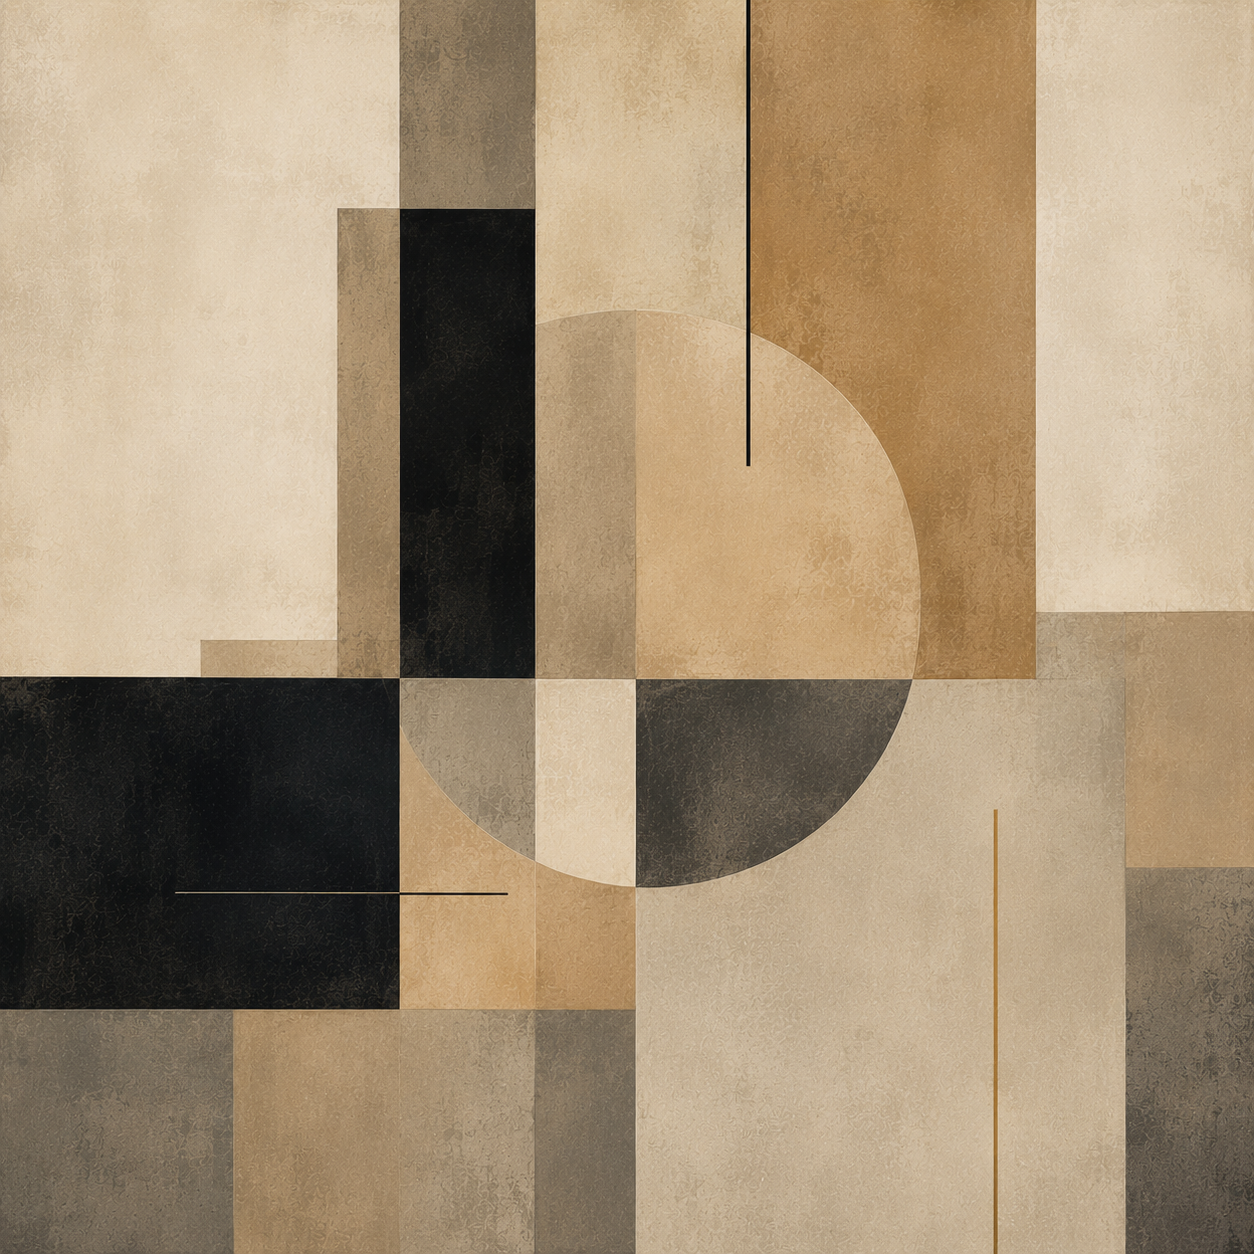
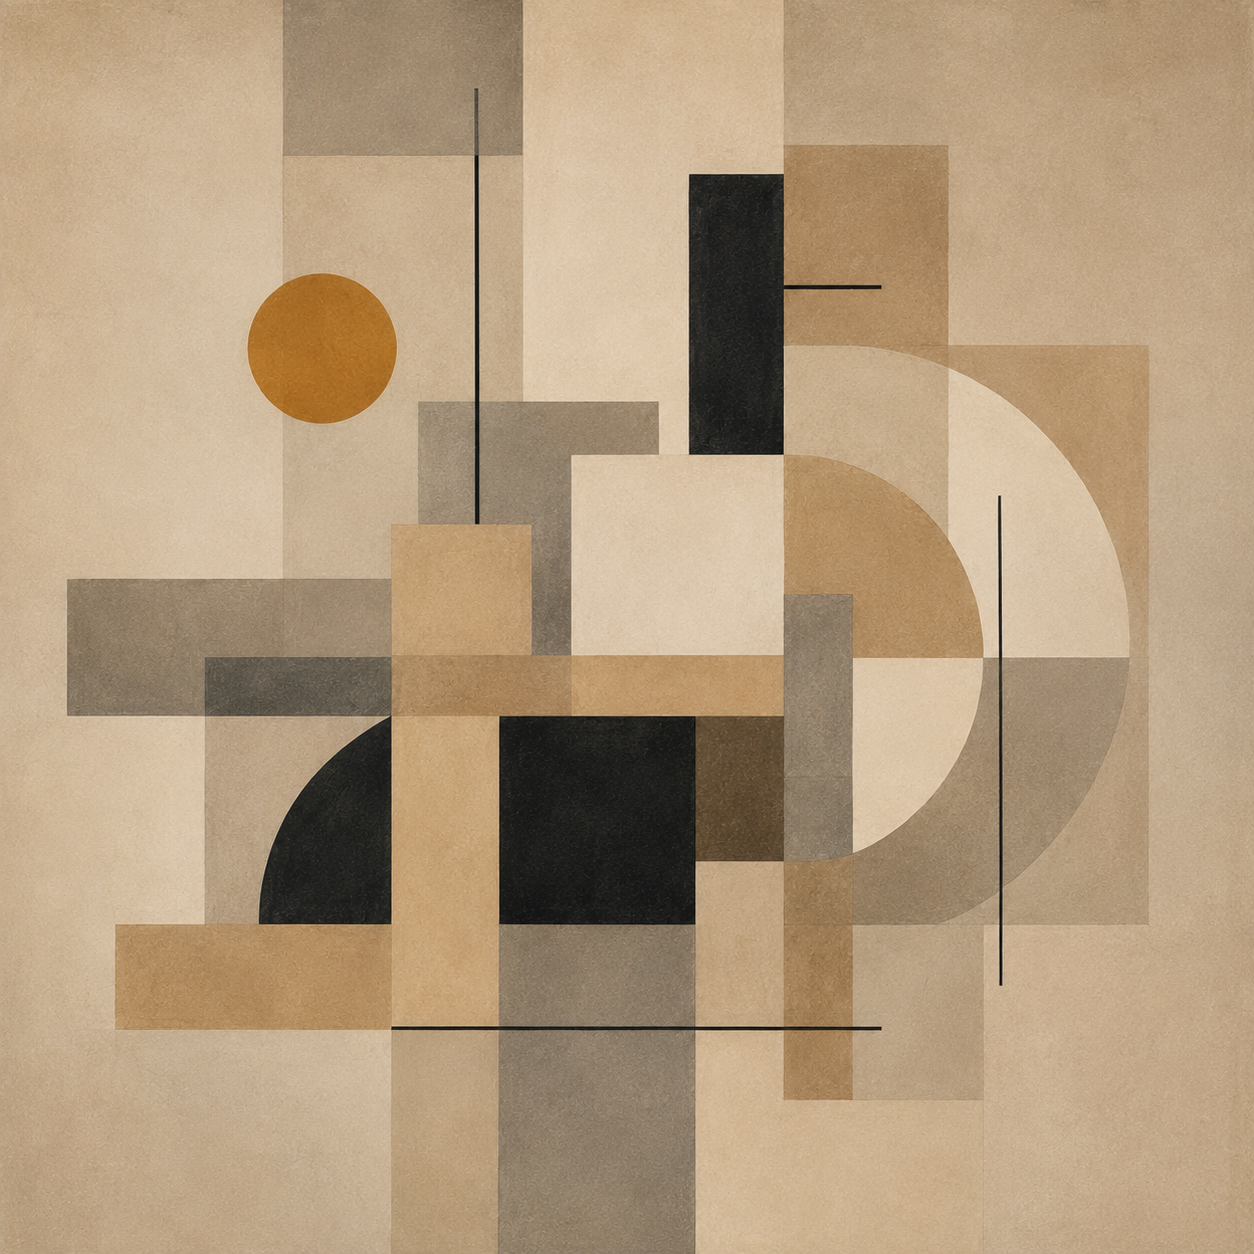
feat(gallery): validate local demonstration media

diff --git a/src/modules/gallery/demo-data.ts b/src/modules/gallery/demo-data.ts
@@ -84,27 +84,10 @@ export const galleryArtworks: readonly GalleryArtwork[] = Object.freeze([
     collectionSlug: "collection-beta",
     title: "Composition fictive A",
     artisticText:
-      "Des lignes ascendantes découpent l’espace et donnent à la composition un mouvement contenu.",
+      "Des lignes noires et des volumes architecturaux traversent l’espace horizontal, tandis qu’un disque ocre suspend leur mouvement.",
     media: Object.freeze({
       src: "/gallery/composition-a.webp",
-      alt: "Composition abstraite fictive verticale structurée par des lignes ascendantes.",
-      orientation: "portrait",
-      dimensions: Object.freeze({
-        width: 1024,
-        height: 1536,
-      }),
-    }),
-  }),
-
-  Object.freeze({
-    slug: "composition-b",
-    collectionSlug: "collection-beta",
-    title: "Composition fictive B",
-    artisticText:
-      "Les masses graphiques s’écartent puis se répondent dans un rythme horizontal volontairement irrégulier.",
-    media: Object.freeze({
-      src: "/gallery/composition-b.webp",
-      alt: "Composition abstraite fictive horizontale formée de masses graphiques espacées.",
+      alt: "Composition abstraite horizontale formée de blocs beiges, gris et noirs, d’arcs géométriques et d’un cercle ocre.",
       orientation: "landscape",
       dimensions: Object.freeze({
         width: 1536,
@@ -114,14 +97,31 @@ export const galleryArtworks: readonly GalleryArtwork[] = Object.freeze([
   }),
 
   Object.freeze({
+    slug: "composition-b",
+    collectionSlug: "collection-beta",
+    title: "Composition fictive B",
+    artisticText:
+      "Les formes s’élèvent en colonnes irrégulières, reliées par des courbes et des lignes fines qui accentuent leur verticalité.",
+    media: Object.freeze({
+      src: "/gallery/composition-b.webp",
+      alt: "Composition abstraite verticale faite de colonnes beiges et noires, de formes courbes et d’un cercle ocre.",
+      orientation: "portrait",
+      dimensions: Object.freeze({
+        width: 1024,
+        height: 1536,
+      }),
+    }),
+  }),
+
+  Object.freeze({
     slug: "composition-c",
     collectionSlug: "collection-beta",
     title: "Composition fictive C",
     artisticText:
-      "Un ensemble de fragments géométriques converge vers le centre sans former de figure identifiable.",
+      "Des fragments rectangulaires et des arcs imbriqués convergent vers un noyau central dans un équilibre dense et mesuré.",
     media: Object.freeze({
       src: "/gallery/composition-c.webp",
-      alt: "Composition abstraite fictive carrée faite de fragments géométriques convergents.",
+      alt: "Composition abstraite carrée faite de rectangles superposés, d’arcs géométriques et d’un cercle ocre.",
       orientation: "square",
       dimensions: Object.freeze({
         width: 1254,

diff --git a/src/test/gallery-demo-data.test.ts b/src/test/gallery-demo-data.test.ts
@@ -1,3 +1,6 @@
+import { existsSync } from "node:fs";
+import { join } from "node:path";
+
 import { describe, expect, it } from "vitest";
 
 import {
@@ -110,19 +113,19 @@ describe("gallery local data contract", () => {
       {
         slug: "composition-a",
         src: "/gallery/composition-a.webp",
-        orientation: "portrait",
+        orientation: "landscape",
         dimensions: {
-          width: 1024,
-          height: 1536,
+          width: 1536,
+          height: 1024,
         },
       },
       {
         slug: "composition-b",
         src: "/gallery/composition-b.webp",
-        orientation: "landscape",
+        orientation: "portrait",
         dimensions: {
-          width: 1536,
-          height: 1024,
+          width: 1024,
+          height: 1536,
         },
       },
       {
@@ -142,6 +145,18 @@ describe("gallery local data contract", () => {
       expect(artwork.media.src).toMatch(/^\/gallery\/[a-z0-9-]+\.webp$/);
       expect(artwork.media.src).not.toMatch(/^https?:\/\//);
       expect(artwork.media.alt.trim()).not.toBe("");
+    }
+  });
+
+  it("references media files that physically exist under public", () => {
+    for (const artwork of galleryArtworks) {
+      const relativePath = artwork.media.src.replace(/^\//, "");
+      const absolutePath = join(process.cwd(), "public", relativePath);
+
+      expect(
+        existsSync(absolutePath),
+        `Missing gallery media: ${artwork.media.src}`,
+      ).toBe(true);
     }
   });
 
